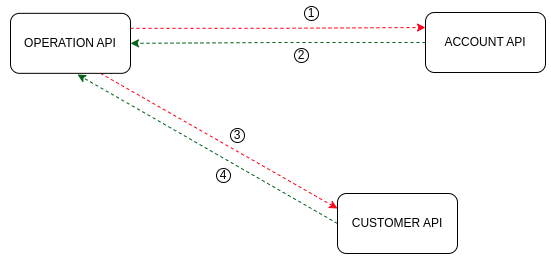
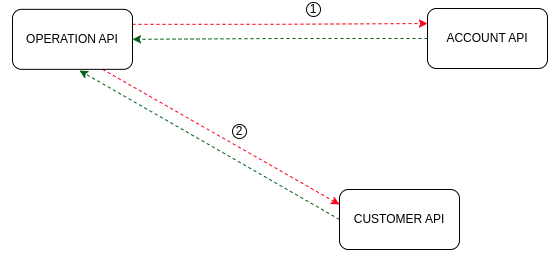
implement microservice operation

diff --git a/backend/business-microservices/business-microservice-operation/src/main/java/fr/exalt/businessmicroserviceoperation/domain/usecase/InputOperationServiceImpl.java b/backend/business-microservices/business-microservice-operation/src/main/java/fr/exalt/businessmicroserviceoperation/domain/usecase/InputOperationServiceImpl.java
@@ -23,7 +23,7 @@ public class InputOperationServiceImpl implements InputOperationService {
 
     @Override
     public Operation createOperation(OperationDto operationDto) throws OperationRequestFieldsInvalidException,
-            OperationTypeInvalidException, RemoteAccountApiUnreachableException, RemoteAccountNotEnoughBalanceException {
+            OperationTypeInvalidException, RemoteAccountApiUnreachableException, RemoteAccountNotEnoughBalanceException, RemoteAccountInaccessibleFromOutsideException {
 
         OperationValidators.formatter(operationDto);
 
@@ -34,28 +34,35 @@ public class InputOperationServiceImpl implements InputOperationService {
             throw new OperationTypeInvalidException(ExceptionsMsg.OPERATION_TYPE);
         }
         Account account = outputOperationService.loadRemoteAccount(operationDto.getAccountId());
-        Customer customer = outputOperationService.loaddRemoteCustomer(account.getCustomerId());
-
         Account updatedAccount = null;
-
+        Customer customer = null;
         if (account.getAccountId().equals(ExceptionsMsg.REMOTE_ACCOUNT_UNREACHABLE)) {
             throw new RemoteAccountApiUnreachableException(String.format("%s,%n%s", ExceptionsMsg.REMOTE_ACCOUNT_UNREACHABLE, account));
         } else {
-            //operation de retrait
-            AccountDto accountDto;
-            if (operationDto.getType().equals("retrait") && (OperationValidators.notEnoughBalance(account, operationDto.getMount()))) {
-                throw new RemoteAccountNotEnoughBalanceException(ExceptionsMsg.REMOTE_ACCOUNT_BALANCE);
-            } else if (operationDto.getType().equals("retrait") && (!OperationValidators.notEnoughBalance(account, operationDto.getMount()))) {
-                account.setBalance(-operationDto.getMount());
-                accountDto = MapperService.fromTo(account);
-                updatedAccount = outputOperationService.updateRemoteAccount(account.getAccountId(), accountDto);
+            //operation de retrait from the remote account api
+            if(account.getType().equals("compte-courant")){
+                AccountDto accountDto;
+                if (operationDto.getType().equals("retrait") && (OperationValidators.notEnoughBalance(account, operationDto.getMount()))) {
+                    throw new RemoteAccountNotEnoughBalanceException(ExceptionsMsg.REMOTE_ACCOUNT_BALANCE);
+                } else if (operationDto.getType().equals("retrait") && (!OperationValidators.notEnoughBalance(account, operationDto.getMount()))) {
+
+                    customer = outputOperationService.loaddRemoteCustomer(account.getCustomerId());
+                    // verifier le state du customer
+                    account.setBalance(-operationDto.getMount());
+                    accountDto = MapperService.fromTo(account);
+                    updatedAccount = outputOperationService.updateRemoteAccount(account.getAccountId(), accountDto);
+                }
+                //operation de depot sur le remote account api
+                else if (operationDto.getType().equals("depot")) {
+                    account.setBalance(operationDto.getMount());
+                    accountDto = MapperService.fromTo(account);
+                    updatedAccount = outputOperationService.updateRemoteAccount(account.getAccountId(), accountDto);
+                }
             }
-            //operation ed depot sur le compte
-            else if (operationDto.getType().equals("depot")) {
-                account.setBalance(operationDto.getMount());
-                accountDto = MapperService.fromTo(account);
-                updatedAccount = outputOperationService.updateRemoteAccount(account.getAccountId(), accountDto);
+            else {
+                throw new RemoteAccountInaccessibleFromOutsideException(ExceptionsMsg.REMOTE_ACCOUNT_TYPE);
             }
+
         }
         assert updatedAccount != null;
         updatedAccount.setCustomer(customer);

diff --git a/backend/business-microservices/business-microservice-operation/src/main/java/fr/exalt/businessmicroserviceoperation/infrastructure/adapters/input/web/OperationController.java b/backend/business-microservices/business-microservice-operation/src/main/java/fr/exalt/businessmicroserviceoperation/infrastructure/adapters/input/web/OperationController.java
@@ -1,10 +1,7 @@
 package fr.exalt.businessmicroserviceoperation.infrastructure.adapters.input.web;
 
 import fr.exalt.businessmicroserviceoperation.domain.entities.Operation;
-import fr.exalt.businessmicroserviceoperation.domain.exceptions.OperationRequestFieldsInvalidException;
-import fr.exalt.businessmicroserviceoperation.domain.exceptions.OperationTypeInvalidException;
-import fr.exalt.businessmicroserviceoperation.domain.exceptions.RemoteAccountApiUnreachableException;
-import fr.exalt.businessmicroserviceoperation.domain.exceptions.RemoteAccountNotEnoughBalanceException;
+import fr.exalt.businessmicroserviceoperation.domain.exceptions.*;
 import fr.exalt.businessmicroserviceoperation.domain.ports.input.InputOperationService;
 import fr.exalt.businessmicroserviceoperation.infrastructure.adapters.output.models.OperationDto;
 import lombok.AllArgsConstructor;
@@ -18,13 +15,17 @@ import java.util.Collection;
 public class OperationController {
     // adapter inputOperationService comme interface entre le domain et l'entrée extérieure
     private final InputOperationService inputOperationService;
+
     @PostMapping(value = "/operations")
-    public Operation createOperation(@RequestBody OperationDto dto) throws OperationTypeInvalidException,
-            OperationRequestFieldsInvalidException, RemoteAccountApiUnreachableException, RemoteAccountNotEnoughBalanceException {
+    public Operation createOperation(@RequestBody OperationDto dto) throws
+            OperationTypeInvalidException, OperationRequestFieldsInvalidException,
+            RemoteAccountApiUnreachableException, RemoteAccountNotEnoughBalanceException,
+            RemoteAccountInaccessibleFromOutsideException {
         return inputOperationService.createOperation(dto);
     }
+
     @GetMapping(value = "/operations")
-    public Collection<Operation> getAllOperations(){
+    public Collection<Operation> getAllOperations() {
         return inputOperationService.getAllOperations();
     }
 }

diff --git a/backend/business-microservices/business-microservice-operation/src/main/java/fr/exalt/businessmicroserviceoperation/domain/ports/input/InputOperationService.java b/backend/business-microservices/business-microservice-operation/src/main/java/fr/exalt/businessmicroserviceoperation/domain/ports/input/InputOperationService.java
@@ -2,16 +2,16 @@ package fr.exalt.businessmicroserviceoperation.domain.ports.input;
 
 import fr.exalt.businessmicroserviceoperation.domain.entities.Operation;
 
-import fr.exalt.businessmicroserviceoperation.domain.exceptions.OperationRequestFieldsInvalidException;
-import fr.exalt.businessmicroserviceoperation.domain.exceptions.OperationTypeInvalidException;
-import fr.exalt.businessmicroserviceoperation.domain.exceptions.RemoteAccountApiUnreachableException;
-import fr.exalt.businessmicroserviceoperation.domain.exceptions.RemoteAccountNotEnoughBalanceException;
+import fr.exalt.businessmicroserviceoperation.domain.exceptions.*;
 import fr.exalt.businessmicroserviceoperation.infrastructure.adapters.output.models.OperationDto;
 
 import java.util.Collection;
 
 public interface InputOperationService {
     Operation createOperation(OperationDto dto) throws OperationRequestFieldsInvalidException,
-            OperationTypeInvalidException, RemoteAccountApiUnreachableException, RemoteAccountNotEnoughBalanceException;
+            OperationTypeInvalidException, RemoteAccountApiUnreachableException,
+            RemoteAccountNotEnoughBalanceException,
+            RemoteAccountInaccessibleFromOutsideException;
+
     Collection<Operation> getAllOperations();
 }

diff --git a/backend/business-microservices/business-microservice-operation/src/main/java/fr/exalt/businessmicroserviceoperation/domain/exceptions/ExceptionsMsg.java b/backend/business-microservices/business-microservice-operation/src/main/java/fr/exalt/businessmicroserviceoperation/domain/exceptions/ExceptionsMsg.java
@@ -7,4 +7,5 @@ public class ExceptionsMsg {
     public static final String OPERATION_TYPE = "Operation type invalid Exception";
     public static final String REMOTE_ACCOUNT_BALANCE = "Remote Account Balance not enough Exception";
     public static final String REMOTE_CUSTOMER_UNREACHABLE ="it may be possible that remote customer is unreachable Exception";
+    public static final String REMOTE_ACCOUNT_TYPE = "Remote account type compte epargne is inaccessible from outside Exception ";
 }

diff --git a/backend/business-microservices/business-microservice-operation/src/main/java/fr/exalt/businessmicroserviceoperation/infrastructure/adapters/input/feignclient/proxies/RemoteCustomerServiceProxy.java b/backend/business-microservices/business-microservice-operation/src/main/java/fr/exalt/businessmicroserviceoperation/infrastructure/adapters/input/feignclient/proxies/RemoteCustomerServiceProxy.java
@@ -16,6 +16,7 @@ import org.springframework.web.bind.annotation.PathVariable;
 public interface RemoteCustomerServiceProxy {
     @GetMapping(value = "/customers/{customerId}")
     CustomerModel loadRemoteCustomer(@PathVariable(name = "customerId") String customerId);
+
     @Component
     @Slf4j
     class RemoteCustomerServiceFallback implements RemoteCustomerServiceProxy {

diff --git a/backend/business-microservices/business-microservice-operation/src/main/java/fr/exalt/businessmicroserviceoperation/domain/exceptions/RemoteAccountInaccessibleFromOutsideException.java b/backend/business-microservices/business-microservice-operation/src/main/java/fr/exalt/businessmicroserviceoperation/domain/exceptions/RemoteAccountInaccessibleFromOutsideException.java
@@ -1,0 +1,7 @@
+package fr.exalt.businessmicroserviceoperation.domain.exceptions;
+
+public class RemoteAccountInaccessibleFromOutsideException extends Exception{
+    public RemoteAccountInaccessibleFromOutsideException(String message) {
+        super(message);
+    }
+}

diff --git a/README.md b/README.md
@@ -81,6 +81,13 @@ Pour créer / editer un compte, **account api** intérroge **customer api** pour
 ### business-microservice-operation
 - **[POST]**: ```http://localhost:8101/api-operation/operations```: pour créer une opération de **dépot** ou de **retrait**
 request payload -> ![operation-post](./assets/operation-post.png)   response -> ![operation-post-return](./assets/opeation-post-return.png)
+![operation-request-chain](./assets/operation-post-chain.png) 
+- Pour enregistrer une opération:
+    - **(1)** l'api **operation** envoie la requête à l'api **account** pour récupérer les informations du compté associé à accountId
+        - **1.1.** l'api operation vérifie que c'est un compte courant (seuls les **comptes courants** autorisent les transactions), si oui ...
+        - **1.2** si opération de **retrat**, l'api operation vérifie la balance du compte ```account.balance + account.overdraft >= operation.amount```, si OK ...
+    - **(2)** l'api **operation** requête l'api **customer** moyenant le **customerId** de account reçu à **(1)** (un account est associé à un customer) 
+        - si le state du customer est active l'opération est saved en db sinon une business exception est retournée
 
 # Deploiement en containers docker
 - Nous utilisons actuellement l'environnement *dev*: **application-dev.yml**, **bootstrap-dev.yml**
